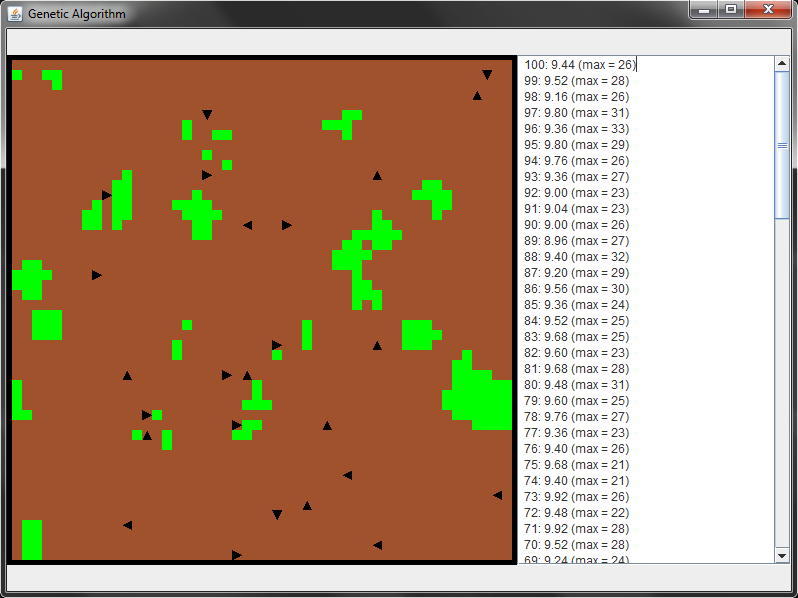
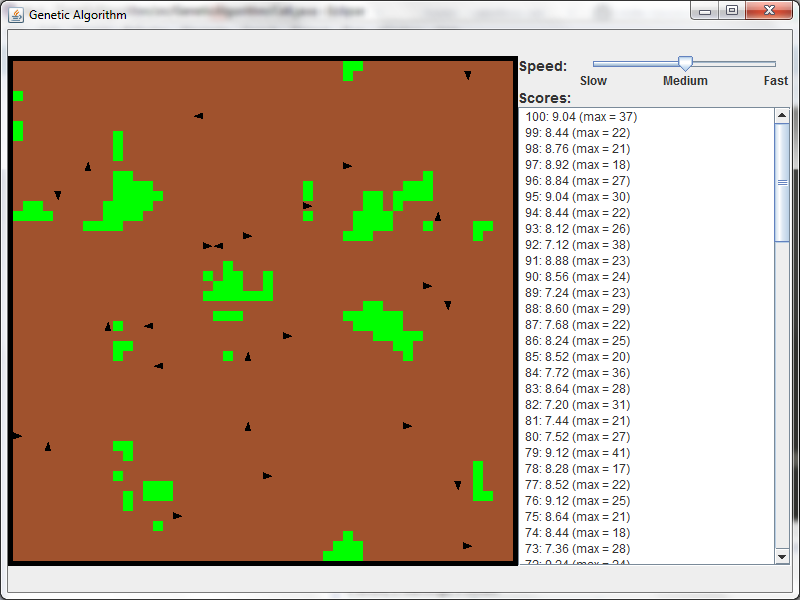
added speed control

diff --git a/src/GeneticAlgorithm/GeneticAlgorithm.java b/src/GeneticAlgorithm/GeneticAlgorithm.java
@@ -13,14 +13,23 @@
 package GeneticAlgorithm;
 import java.awt.*;
 import java.util.ArrayList;
+import java.util.Hashtable;
 
 import javax.swing.*;
+import javax.swing.event.ChangeEvent;
+import javax.swing.event.ChangeListener;
 
 public class GeneticAlgorithm {
 	static final int NUM_ROWS = 50;
 	static final int NUM_COLS = 50;
 	static final double PLANT_DENSITY = 0.1;
 	static final double PLANTS_PER_EVOLVER = 10;
+	
+	static int timeStep = 100;
+	
+	public static void setTimeStep(int timer) {
+		timeStep = timer;
+	}
 
 	public static void main(String[] args) {
 		final int PLANT_COUNT = (int)(PLANT_DENSITY*NUM_ROWS*NUM_COLS);
@@ -50,6 +59,33 @@ public class GeneticAlgorithm {
 		}
 
 		TextScroll scroll = new TextScroll();
+		
+		JSlider slider = new JSlider(JSlider.HORIZONTAL,4,40,1000/timeStep);
+		slider.addChangeListener(new ChangeListener() {
+			@Override
+			public void stateChanged(ChangeEvent e) {
+				JSlider source = (JSlider)e.getSource();
+				if (!source.getValueIsAdjusting()) {
+					setTimeStep(1000/source.getValue());
+				}
+            }
+		});
+
+		Hashtable<Integer, JLabel> labelTable = new Hashtable<Integer, JLabel>();
+		labelTable.put(4, new JLabel("Slow"));
+		labelTable.put(22, new JLabel("Medium"));
+		labelTable.put(40, new JLabel("Fast"));
+		slider.setLabelTable(labelTable);
+		slider.setPaintLabels(true);
+		
+		Font labelFont = new Font("Sans", Font.BOLD, 14);
+		
+		JLabel speedLabel = new JLabel("Speed:");
+		speedLabel.setVerticalAlignment(JLabel.TOP);
+		speedLabel.setFont(labelFont);
+		
+		JLabel scoresLabel = new JLabel("Scores:");
+		scoresLabel.setFont(labelFont);
 
 		GridBagConstraints c = new GridBagConstraints();
 
@@ -57,12 +93,34 @@ public class GeneticAlgorithm {
 		c.weightx = 0.0;
 		c.gridx = 0;
 		c.gridy = 0;
+		c.gridheight = GridBagConstraints.REMAINDER;
 		frame.add(worldGrid,c);
+		c.gridheight = 1;
 
+		c.fill = GridBagConstraints.HORIZONTAL;
+		c.weightx = 1.0;
+		c.gridx = 2;
+		c.gridy = 0;
+		frame.add(slider,c);
+		
 		c.fill = GridBagConstraints.BOTH;
 		c.weightx = 1.0;
 		c.gridx = 1;
 		c.gridy = 0;
+		frame.add(speedLabel,c);
+		
+		c.fill = GridBagConstraints.BOTH;
+		c.weightx = 1.0;
+		c.gridx = 1;
+		c.gridy = 1;
+		c.gridwidth = 2;
+		frame.add(scoresLabel,c);
+		
+		c.fill = GridBagConstraints.BOTH;
+		c.weightx = 1.0;
+		c.gridx = 1;
+		c.gridy = 2;
+		c.gridwidth = 2;
 		frame.add(scroll,c);
 
 		frame.pack();
@@ -78,7 +136,7 @@ public class GeneticAlgorithm {
 			for (int j = 0; j < 365; j++) {
 				if (i >= 100) {
 					try {
-						Thread.sleep(25);
+						Thread.sleep(timeStep);
 					} catch (Exception e) {}
 				}
 				world.step();
